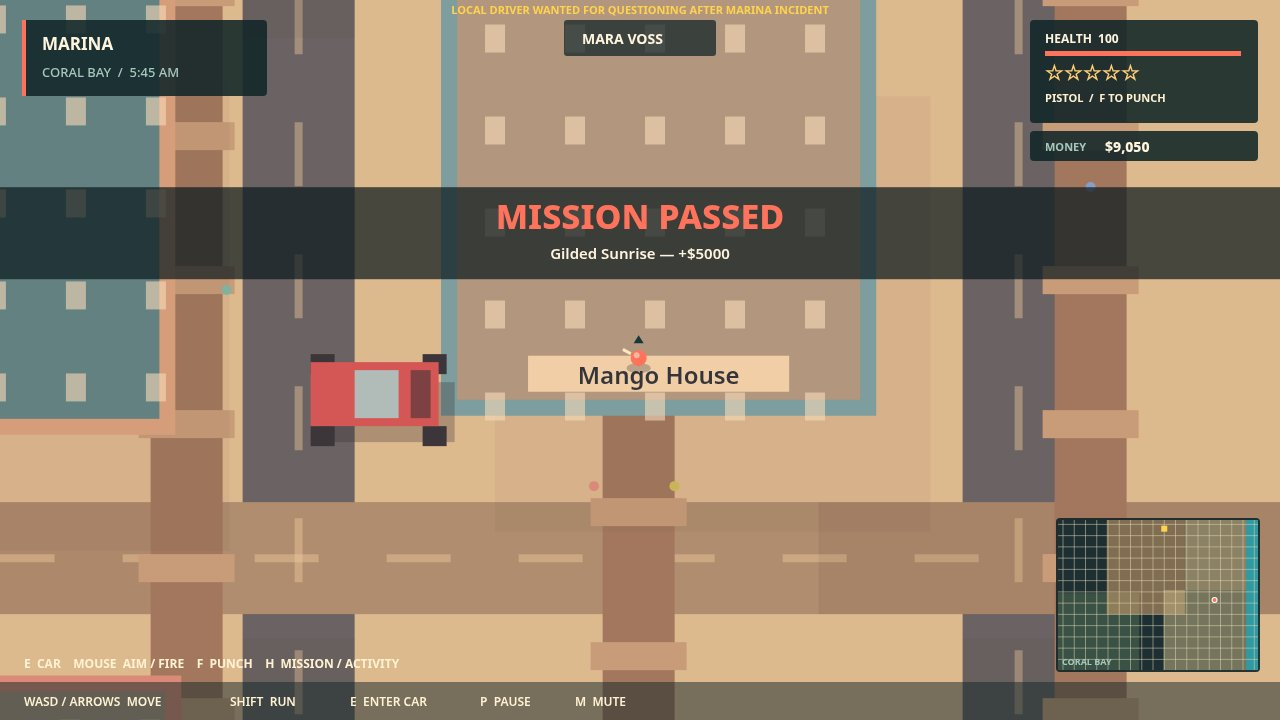
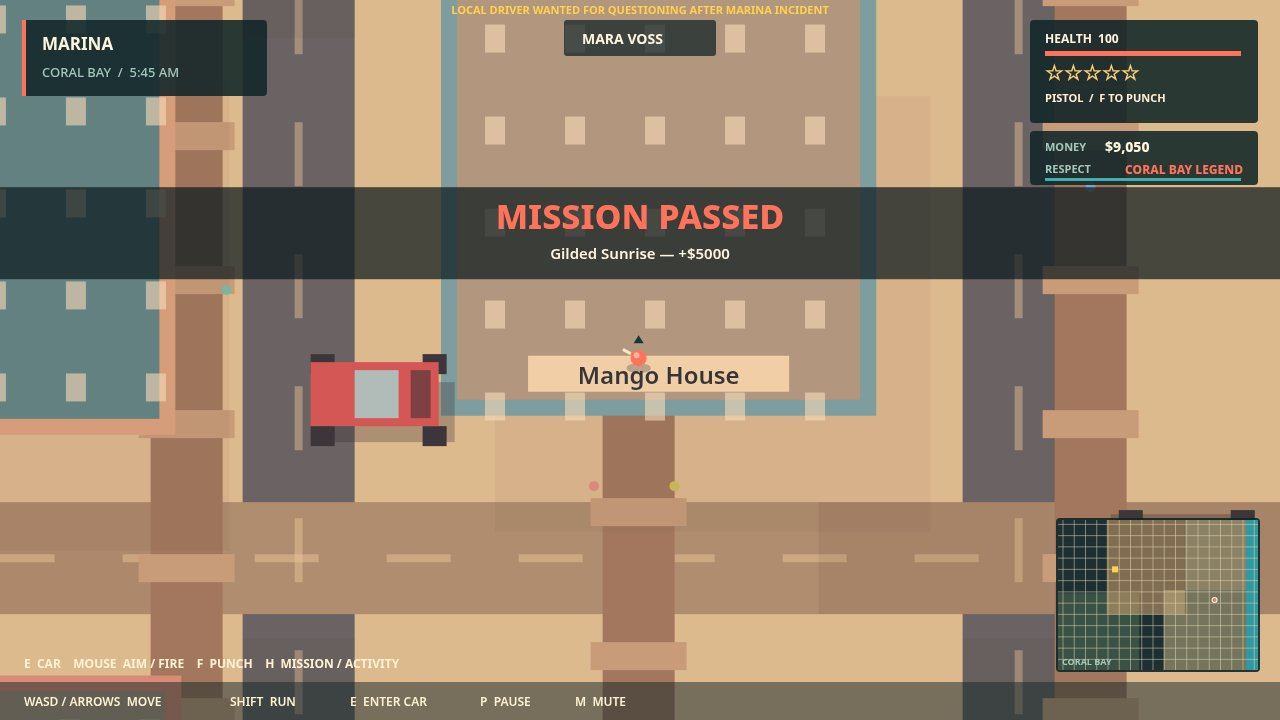
F3-S3: recapture screenshots — AIR ONE over the night chase, respect + radio in the HUD

Changed region(s): [[0.7812, 0.2139, 1.0, 0.275], [0.875, 0.7028, 1.0, 0.7333]]

diff --git a/tools/capture-shots.js b/tools/capture-shots.js
@@ -353,11 +353,20 @@ server.listen(0, '127.0.0.1', async () => {
         return true; })()`);
       await evaluate(`CoralShots.stage('3-chase'); true`);
       await delay(200);
+      // AIR ONE must be in this frame: at 5 stars the heli should already
+      // be up (the M-chain heat spawns it); if it is not, step the police
+      // until it joins, before anything is frozen.
+      await evaluate(`(() => { const g=CoralGame; let guard=0; while (!g.police.heli && guard++ < 200) stepPolice(0.05); return !!g.police.heli; })()`);
       // Drive-by muzzle flash + freeze in one evaluate so the 0.12 s flash
-      // is still on screen when the frame is captured.
+      // is still on screen when the frame is captured. The heli is placed
+      // in this same evaluate, after the last police update, so its AI
+      // cannot re-orbit it out of the frame before the freeze: up-left of
+      // the player car, spotlight pooled on the car, nose toward it.
       await evaluate(`(() => { const g=CoralGame, rb=g.police.roadblock, c=g.vehicles.playerCar;
         const a=Math.atan2(rb.y-c.y, rb.x-c.x);
         g.combat.fire(c.x, c.y, a, 'player');
+        const h=g.police.heli;
+        if (h) { h.x=c.x-80; h.y=c.y-95; h.spotX=c.x; h.spotY=c.y; h.angle=Math.atan2(c.y-h.y, c.x-h.x); }
         CoralShots.freeze(true); return true; })()`);
       await delay(300);
       const d = await evaluate('CoralShots.describe()');
@@ -365,6 +374,7 @@ server.listen(0, '127.0.0.1', async () => {
       check('shot3InCar', d.inCar === 'sport');
       check('shot3Stars5b', d.stars === 5);
       check('shot3Roadblock', d.roadblock === true);
+      check('shot3Heli', d.heli === true);
       check('shot3Night', d.day >= 0.99);
       check('shot3CarHurt', d.carHealth !== null && d.carHealth <= 40);
       check('shot3Health35', d.health === 35);
